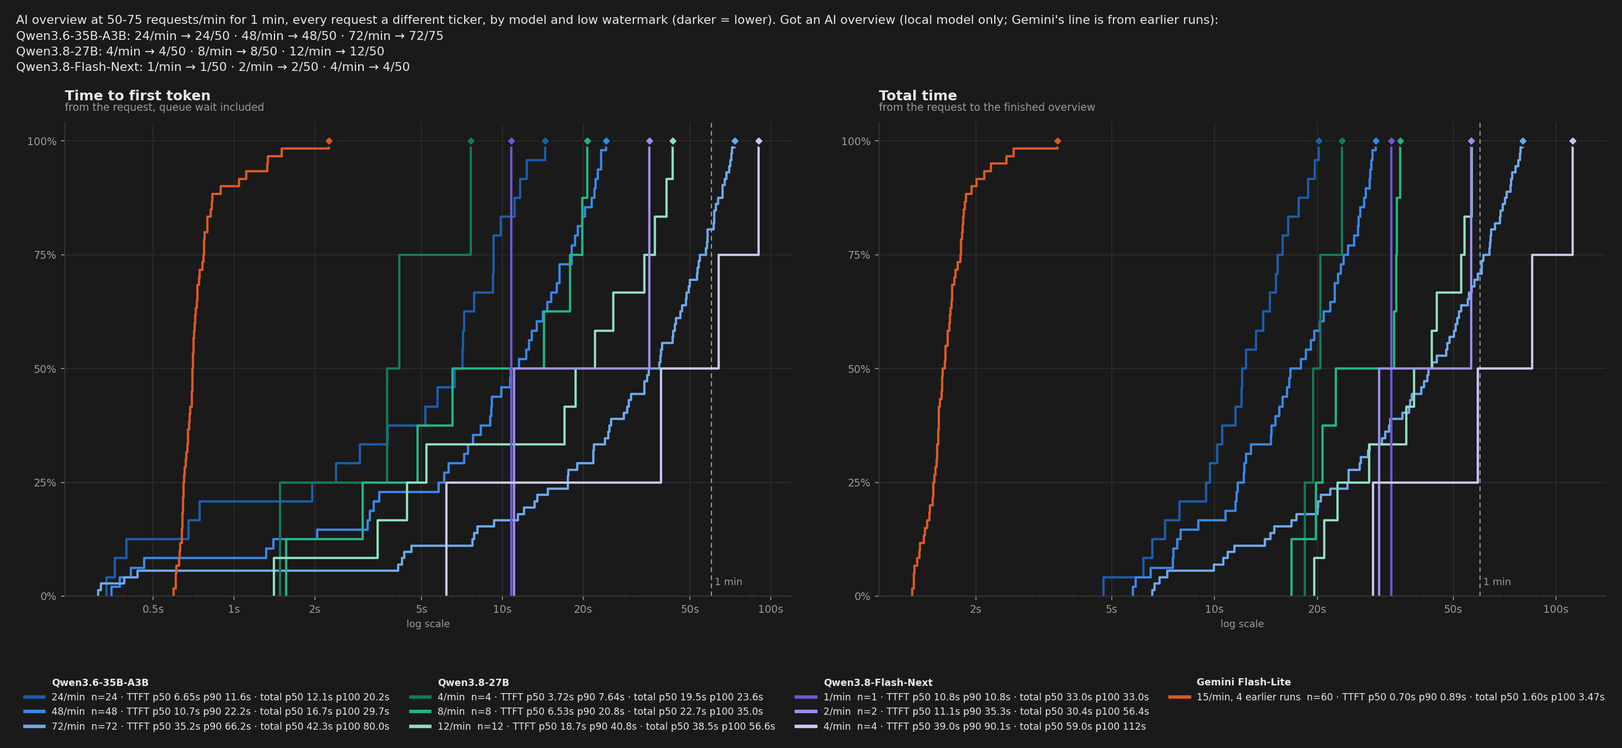
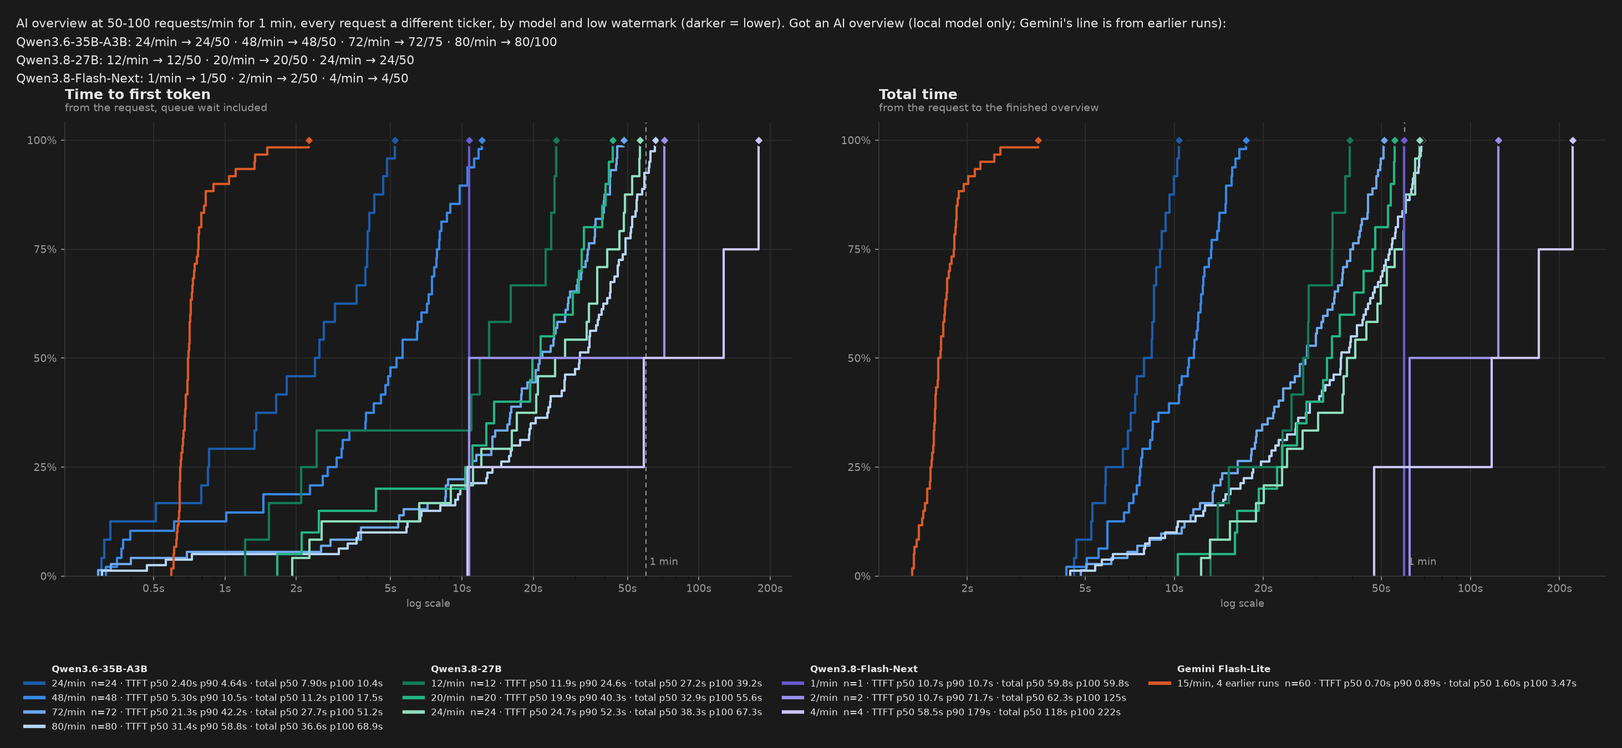
ui: rebenchmark M6 AI inference after Splash/Strata upgrades; bump 27B default watermark to 20/min
Re-benchmarked Qwen3.6-35B-A3B, Qwen3.8-27B (Splash) and Qwen3.8-Flash-Next
(Strata 0.1.62-metal) on the M6 Mac mini through inference-switchboard with
live Yahoo analyses (~750-token prompts, 288 cached on Splash, 0 on Strata):

- Qwen3.6-35B-A3B (Splash): 1-min burst watermark 56 -> 72/min (51.2 s max),
  ~40-41 ovw/min sustained (~58 tok/s x 4 streams; 131-146 tok/s solo).
- Qwen3.8-27B (Splash): 1-min burst watermark 12 -> 20/min (55.6 s max),
  ~15 ovw/min sustained (~22 tok/s x 4 streams; 32-41 tok/s solo).
- Qwen3.8-Flash-Next (Strata 0.1.62-metal): 1-min watermark 2 -> 1/min
  (59.8 s max, 4.3-5.6 tok/s, ~65 s/ticker pre-cache) due to 84 MiB (64-slot)
  expert cache at 128K fp16 context saturating SSD reads (~3 GB/s).

Bumps default --llm-rpm from 12 to 20 (with updated CLI help, docs, and unit
tests) and refreshes ui/docs/inference_bench_m6.png and READMEs.

diff --git a/ui/server.py b/ui/server.py
@@ -928,7 +928,7 @@ def parse_args(argv=None):
     p.add_argument("--cache-llm-url", default=s.cache_llm_base_url, metavar="URL",
                    help="the nightly pre-cache's model: its AI overviews are written there, one at a time, then "
                         "--llm-url is primed again (default: port 8002 of LYNCH_SWITCHBOARD, Qwen3.8-Flash-Next on "
-                        "Strata, ~30 s an overview; '' = the online model)")
+                        "Strata, ~60 s an overview; '' = the online model)")
     p.add_argument("--cache-llm-model", default=s.cache_llm_model,
                    help="model id at --cache-llm-url (default Qwen3.8-Flash-Next; '' = the first model it lists)")
     p.add_argument("--no-cache-llm", action="store_true", help="the online model writes the pre-cache's overviews too")
@@ -943,7 +943,7 @@ def parse_args(argv=None):
                    help="ask LM Studio to load the model with --llm-ctx before the first request")
     p.add_argument("--llm-rpm", type=int, default=s.llm_rpm, metavar="N",
                    help=f"low watermark: AI overviews a minute the local model is given (default {s.llm_rpm}: "
-                        "Qwen3.8-27B on the M6's Splash with --llm-parallel 4; 56 for Qwen3.6-35B-A3B). Above it, "
+                        "Qwen3.8-27B on the M6's Splash with --llm-parallel 4; 72 for Qwen3.6-35B-A3B). Above it, "
                         "Gemini; above --llm-rpm + --gemini-rpm, the Quick overview with a Retry AI button")
     p.add_argument("--gemini-model", default=s.gemini_model,
                    help="Gemini model for overviews above the low watermark (default gemini-flash-lite-latest; "
@@ -961,7 +961,7 @@ def parse_args(argv=None):
                         "day minus 10 for the daily scans); past it lookups are not enriched")
     p.add_argument("--precache", type=int, default=s.precache, metavar="N",
                    help="right after the cache resets at midnight, analyse the N most looked-up tickers of the "
-                        "last 30 days, one at a time with their AI overviews by --cache-llm-url (default 50: ~25 "
+                        "last 30 days, one at a time with their AI overviews by --cache-llm-url (default 50: ~55 "
                         "min on Flash-Next; 0 = off; needs the stats page, i.e. --lan or --public)")
     p.add_argument("--benchmark", default=s.benchmark, help="index for the 6M edge backtest (default SPY)")
     p.add_argument("--edge", action="store_true", default=s.edge,

diff --git a/ui/config.py b/ui/config.py
@@ -131,7 +131,7 @@ class Settings:
         "LYNCH_LLM_MODEL", "mlx-community/Qwen3.8-27B-4bit", ""))
     # The nightly pre-cache's model (ui/precache.py): its AI overviews are written on this endpoint instead, one at a
     # time; afterwards the online model above is primed again (the switchboard swapped it out). Empty = the online model.
-    # With LYNCH_SWITCHBOARD: Qwen3.8-Flash-Next on its port 8002, ~30 s an overview on the M6, too slow for visitors.
+    # With LYNCH_SWITCHBOARD: Qwen3.8-Flash-Next on its port 8002, ~60 s an overview on the M6, too slow for visitors.
     cache_llm_base_url: str = field(default_factory=lambda: _llm_default("LYNCH_CACHE_LLM_URL", "{sb}:8002", ""))
     cache_llm_model: str = field(default_factory=lambda: os.environ.get("LYNCH_CACHE_LLM_MODEL", "Qwen3.8-Flash-Next"))
     llm_ctx: int = field(default_factory=lambda: _env_int("LYNCH_LLM_CTX", 65536))
@@ -148,11 +148,11 @@ class Settings:
     llm_parallel: int = field(default_factory=lambda: _env_int("LYNCH_LLM_PARALLEL", 4))
     # Ask LM Studio to (JIT-)load the model with llm_ctx context before the first request.
     llm_autoload: bool = field(default_factory=lambda: _env_bool("LYNCH_LLM_AUTOLOAD"))
-    # Inference queue (ui/inference_queue.py). Low watermark: AI overviews per minute the local model is given. 12 is
-    # Qwen3.8-27B on the M6's Splash with --llm-parallel 4: a 1-minute burst of 12 all finished within 57 s (ui/README.md,
-    # "Benchmark: the M6 Mac mini"); 56 for Qwen3.6-35B-A3B. Above it, overviews go to Gemini up to gemini_rpm (high
+    # Inference queue (ui/inference_queue.py). Low watermark: AI overviews per minute the local model is given. 20 is
+    # Qwen3.8-27B on the M6's Splash with --llm-parallel 4: a 1-minute burst of 20 all finished within 56 s (ui/README.md,
+    # "Benchmark: the M6 Mac mini"); 72 for Qwen3.6-35B-A3B. Above it, overviews go to Gemini up to gemini_rpm (high
     # watermark = llm_rpm + gemini_rpm); above that, the Quick overview.
-    llm_rpm: int = field(default_factory=lambda: _env_int("LYNCH_LLM_RPM", 12))
+    llm_rpm: int = field(default_factory=lambda: _env_int("LYNCH_LLM_RPM", 20))
     # Gemini offload (ui/gemini.py): on when GEMINI_API_KEY is set. Free tier: 15 requests a minute per model
     # (Google's 429 names the quota); 975 a day leaves room for the daily scans' backup tier.
     gemini: bool = field(default_factory=lambda: _env_bool("LYNCH_GEMINI", True))

diff --git a/ui/llm.py b/ui/llm.py
@@ -543,9 +543,9 @@ class LocalLLMClient:
 
 class CacheLLMClient(LocalLLMClient):
     """The nightly pre-cache's model (``--cache-llm-url``): ``LocalLLMClient`` on a second endpoint, by default
-    Qwen3.8-Flash-Next on Strata behind the switchboard (one request at a time, ~30 s an overview on the M6). Same
+    Qwen3.8-Flash-Next on Strata behind the switchboard (one request at a time, ~60 s an overview on the M6). Same
     context, token budget, reasoning switch and timeout as the online model. No system-prompt priming: Strata's prefix
-    cache never hit (``cached_tokens: 0`` even after priming), so a prime would only add ~6 s of prefill now and then."""
+    cache never hit on ticker prompts (``cached_tokens: 0`` even after priming), so a prime would only add prefill."""
 
     def __init__(self, settings, session=None, clock=time.monotonic):
         s = dataclasses.replace(settings, llm_base_url=settings.cache_llm_base_url.rstrip("/"),

diff --git a/ui/tests/test_inference.py b/ui/tests/test_inference.py
@@ -213,7 +213,7 @@ def test_cli_sets_the_watermarks():
     s, _ = parse_args(["--llm-rpm", "12", "--gemini-rpm", "10", "--gemini-rpd", "500", "--gemini-model", "m"])
     assert (s.llm_rpm, s.gemini_rpm, s.gemini_rpd, s.gemini_model, s.gemini) == (12, 10, 500, "m", True)
     assert parse_args(["--no-gemini"])[0].gemini is False
-    assert Settings().llm_rpm == 12 and Settings().gemini_model == "gemini-flash-lite-latest"  # the 27B's minute
+    assert Settings().llm_rpm == 20 and Settings().gemini_model == "gemini-flash-lite-latest"  # the 27B's minute
 
 
 # ── the job manager ──────────────────────────────────────────────────────────

diff --git a/ui/precache.py b/ui/precache.py
@@ -11,7 +11,7 @@ don't count on the stats page or in the cache's hit rate. They do spend the usua
 enrichment on, FMP requests (within the portal's 24 h cap, ui/fmp_budget.py).
 
 The overviews are written by the pre-cache's own model (--cache-llm-url: Qwen3.8-Flash-Next on Strata behind the
-switchboard: ~31 s a ticker with its analysis on the M6, ~25 min for 50) while it answers, else by the online model.
+switchboard: ~65 s a ticker with its analysis on the M6, ~55 min for 50) while it answers, else by the online model.
 On the switchboard that swaps the online model out, so once the run is over the online model (--llm-url) is primed
 again: the swap back and the system prompt's prefill happen now, not on the first visitor's overview.
 """

diff --git a/ui/tests/test_ai.py b/ui/tests/test_ai.py
@@ -51,7 +51,7 @@ def test_switchboard_defaults(monkeypatch, tmp_path):
     s = Settings()
     assert (s.llm_base_url, s.llm_model) == ("http://100.64.0.1:8000", "mlx-community/Qwen3.8-27B-4bit")
     assert (s.cache_llm_base_url, s.cache_llm_model) == ("http://100.64.0.1:8002", "Qwen3.8-Flash-Next")
-    assert (s.llm_rpm, s.llm_parallel) == (12, 4)  # the 27B's 1-minute point with the switchboard's 4 streams
+    assert (s.llm_rpm, s.llm_parallel) == (20, 4)  # the 27B's 1-minute point with the switchboard's 4 streams
     monkeypatch.setenv("LYNCH_LLM_BASE_URL", "http://10.0.0.5:1234")  # an explicit setting wins
     monkeypatch.setenv("LYNCH_CACHE_LLM_URL", "")                     # "" = the online model pre-caches
     s = Settings()

diff --git a/ui/README.md b/ui/README.md
@@ -282,7 +282,7 @@ Measured cost:
 | `--llm-reasoning` | `LYNCH_LLM_REASONING` | `off` (sends `reasoning_effort: "none"`; `on` keeps the model's thinking) |
 | `--llm-autoload` | `LYNCH_LLM_AUTOLOAD=1` | off (asks LM Studio to load the model with `--llm-ctx`) |
 | `--llm-parallel` | `LYNCH_LLM_PARALLEL` | `4` AI overviews generated at once: the switchboard admits 4 per Splash model (see *Local AI tuning*) |
-| `--llm-rpm` | `LYNCH_LLM_RPM` | `12`: low watermark, AI overviews a minute the local model is given (the 27B's). Measured on the M6 with `--llm-parallel 4`: 56 for Qwen3.6-35B-A3B (~32 under sustained load) and 12 for the 27B; 2 for Flash-Next on Strata with `--llm-parallel 1` (see *Benchmark: the M6 Mac mini*) |
+| `--llm-rpm` | `LYNCH_LLM_RPM` | `20`: low watermark, AI overviews a minute the local model is given (the 27B's). Measured on the M6 with `--llm-parallel 4`: 72 for Qwen3.6-35B-A3B (~40 under sustained load) and 20 for the 27B (~15 sustained); 1 for Flash-Next on Strata with `--llm-parallel 1` (see *Benchmark: the M6 Mac mini*) |
 | `--gemini-model` | `LYNCH_GEMINI_MODEL` | `gemini-flash-lite-latest`: offload above the low watermark, with `GEMINI_API_KEY` set |
 | `--gemini-rpm` / `--gemini-rpd` | `LYNCH_GEMINI_RPM` / `LYNCH_GEMINI_RPD` | `15` a minute (the free tier's limit per model) / `975` a Pacific day (room for the daily scans' backup tier) |
 | `--no-gemini` | `LYNCH_GEMINI=0` | Gemini offload on when `GEMINI_API_KEY` is set |
@@ -304,7 +304,7 @@ Measured cost:
 | `--workers` | `LYNCH_UI_WORKERS` | `0` = auto: 2 × CPU cores (max 16, capped by free RAM at ~200 MB each), or 1 with the AI overview when its model runs on this machine (a loopback `--llm-url`); above 1, one process each |
 | `--enrich` | `LYNCH_UI_ENRICH` | `auto`: FMP multi-source growth when `FMP_API_KEY` is set (`on` / `off` to force) |
 | `--fmp-limit` | `LYNCH_UI_FMP_LIMIT` | `240`: FMP requests the portal may make in any rolling 24 h (the free plan's 250 a day minus 10 for the daily scans). Every request FMP answers counts, errors included (a 402 for a symbol outside the free plan counts on FMP's dashboard); only a request FMP didn't answer (network error, timeout, a 5xx server failure) is handed back, and lookups that never call FMP cost nothing. Past the cap lookups are simply not enriched; the count is shared by the analysis processes and kept across restarts (`<cache_dir>/fmp_budget.sqlite3`), and `/api/health` shows it under `enrich` (not with `--public`). A ticker FMP had nothing for (a 402 for a symbol outside the free plan, or estimates that give no 5Y growth, i.e. *Not enriched*) is not asked again for 30 days, so its repeat lookups cost no FMP request; FMP's own daily cap, a rejected key, a 429, a 5xx or a network error never put a ticker on that list (`unenriched` under `enrich` counts them). The portal only: the daily scans (`main.py`) still ask FMP every time |
-| `--precache` | `LYNCH_UI_PRECACHE` | `50`: right after the cache resets at midnight, analyse the N most looked-up tickers of the last 30 days (from the stats page, so `--lan` / `--public`; fewer if fewer were looked up), one at a time: with the AI overview on, the next ticker starts only once the previous one's overview is finished. The overviews are `--cache-llm-url`'s while it answers (Flash-Next: ~31 s a ticker with its analysis, ~25 min for 50), else the online model's. These lookups don't count on the stats page or in the cache's hit rate, but spend the usual Yahoo calls and FMP requests (within `--fmp-limit`). `0` = off; `/api/health` shows the last run under `precache` |
+| `--precache` | `LYNCH_UI_PRECACHE` | `50`: right after the cache resets at midnight, analyse the N most looked-up tickers of the last 30 days (from the stats page, so `--lan` / `--public`; fewer if fewer were looked up), one at a time: with the AI overview on, the next ticker starts only once the previous one's overview is finished. The overviews are `--cache-llm-url`'s while it answers (Flash-Next: ~65 s a ticker with its analysis, ~55 min for 50), else the online model's. These lookups don't count on the stats page or in the cache's hit rate, but spend the usual Yahoo calls and FMP requests (within `--fmp-limit`). `0` = off; `/api/health` shows the last run under `precache` |
 | | `LYNCH_UI_NATIVE_CHART=0` / `LYNCH_UI_CHART_LIB` | on when built / `ui/native/target/release/liblynch_chart.dylib` (`.so` on Linux): draw per-ticker charts with matplotlib instead / where the native renderer is loaded from (see *Native chart renderer*) |
 | `--tv-viewers` | `LYNCH_UI_TV_VIEWERS` | `50`: people who may have the trading view open at once (0 = no limit; see *Trading view*) |
 | `--tv-live` | `LYNCH_UI_TV_LIVE` | `2`: people who may use the LIVE last candle at once (each live ticker: up to 30 Yahoo requests a minute) |
@@ -322,7 +322,7 @@ Every new AI overview request (a ticker without one today) is admitted by `ui/in
 
 | Requests in the last minute | Who writes the overview |
 |---|---|
-| up to the **low watermark** (`--llm-rpm`, default 12) | the local model; at most that many waiting or being written at once, so a model slower than its setting never builds more than about a minute of backlog |
+| up to the **low watermark** (`--llm-rpm`, default 20) | the local model; at most that many waiting or being written at once, so a model slower than its setting never builds more than about a minute of backlog |
 | low … **high watermark** (= `--llm-rpm` + `--gemini-rpm`) | **Gemini** (`--gemini-model`, default `gemini-flash-lite-latest`) through its OpenAI-compatible API, streamed like the local model, at most 15 a minute and 975 a Pacific day (`ui/gemini.py`) |
 | above the high watermark | nobody for now: the page shows the rule-based **Quick overview** with **↻ Retry AI**, which counts down `retry_after` (when a slot frees up) |
 
@@ -334,21 +334,23 @@ Every new AI overview request (a ticker without one today) is admitted by `ui/in
 - **No reasoning switch for Gemini.** Flash-Lite doesn't think, and the API refuses any attempt to turn thinking off (400 for `reasoning_effort: "none"` and for `thinking_budget: 0`). A refused request still counts: sending it once cost one of the minute's 15 and the 15th request got a 429. `"minimal"` is accepted but turned a ~1 s first token into ~7 s.
 - `/api/health` shows the queue under `cache.inference`: watermarks, last minute's local and paused requests, Gemini's minute and day. The stats page charts where overviews came from (see *Stats page*).
 
-### Benchmark: the M6 Mac mini (2026-10-27)
+### Benchmark: the M6 Mac mini (2026-11-19)
+
+Re-measured after Splash and Strata engine upgrades (128K context on all three ports, Splash speculative decoding + `int8` KV + ANE split prefill on dense FFN, Strata `0.1.62-metal` with 128K `fp16` KV and `dflash2` drafting) and the 2026-11-03 prompt additions (~750 tokens vs ~630 on 2026-10-27; 288 cached system-prompt tokens on Splash vs 256).
 
 `ui/tests/inference_bench.py` sends AI overview requests at a fixed rate through the portal's real `JobManager`:
-- **Prompts.** Every request is a different ticker, and a ticker the local model has written is not used again that day.
-  - The tickers come from `database/*.txt`, analysed once a day from live Yahoo data with FMP off.
-  - A prompt the server has seen before comes almost entirely from Splash's prefix cache (~610 of ~630 tokens instead of the 256-token system prompt), which would make the local model's TTFT look about 2× better than it is. Tickers that went to Gemini or the Quick overview stay available, so a day has room for about 10 runs.
+- **Prompts.** Every request is a different ticker, and no ticker seen by a model is reused on that model the same day (`cached_tokens` verified equal to the 288-token system prompt on every Splash request, 0 on Strata).
+  - The tickers come from `database/*.txt` (311 usable), analysed once a day from live Yahoo data with FMP off.
+  - A prompt the server has seen before comes almost entirely from Splash's prefix cache (~730 of ~750 tokens instead of the 288-token system prompt), which would make the local model's TTFT look about 2× better than it is.
 - **Warm-up.** Two spare tickers first load the weights and prime the shared system prompt.
 - **Timing.** Time to first token is measured from the request, so it includes the queue wait. Total time runs from the request to the finished overview.
 - **Output.** The results are written to `tmp/`, with CDF charts. `--compare` draws several runs (up to three models) on one chart, and `--gemini-from` takes Gemini's line from earlier runs instead of spending Gemini requests.
 
-Setup: a Mac mini M6 (32 GB) on Tailscale, serving through [inference-switchboard](https://github.com/duman190/inference-switchboard): one model in memory at a time, picked by port.
-- **Engines.** The two Qwens run on Splash (4-bit MLX, at most 4 requests at once), and Qwen3.8-Flash-Next Q2_0 runs on Strata (one request at a time, experts streamed from the SSD).
-- **Client.** The portal ran on a laptop with `--llm-parallel 4` (1 for Strata) and 64K context.
-- **Load.** Each run sent 50 requests in 1 minute, or 75 where the low watermark was above 50, with Gemini off.
-- **Switching.** One switch per model, 13-23 s, then the warm-up.
+Setup: a Mac mini M6 (32 GB, macOS 27.2) on Tailscale, serving through [inference-switchboard](https://github.com/duman190/inference-switchboard): one model in memory at a time, picked by port.
+- **Engines.** The two Qwens run on Splash (4-bit MLX, 128K context, `int8` KV, speculative decoding, `maximum_batch_width = 4`), and Qwen3.8-Flash-Next Q2_0 runs on Strata `0.1.62-metal` (128K context, `fp16` KV, `dflash2` drafting, one request at a time, experts streamed from the SSD).
+- **Client.** The portal ran on a laptop with `--llm-parallel 4` (1 for Strata) and 64K client context.
+- **Load.** Each run sent 50 requests in 1 minute, 75 where the low watermark was 56–72, and 100 at 80/min, with Gemini off.
+- **Switching.** One switch per model, 17–22 s, then the warm-up.
 
 ![AI overview CDFs on the M6: Qwen3.6-35B-A3B, Qwen3.8-27B and Qwen3.8-Flash-Next by low watermark](docs/inference_bench_m6.png)
 
@@ -356,34 +358,35 @@ Gemini's line is from the four 2026-10-07 runs (Flash-Lite at 15 a minute, n=60)
 
 | Model | Low watermark | Local overviews | Started / done by 1:00 | TTFT p50 / p90 / max | Total p50 / p90 / max | Tok/s per stream |
 |---|---|---|---|---|---|---|
-| Qwen3.6-35B-A3B | 16/min | 16/16 | 16 / 16 | 3.8 / 7.4 / 7.6 s | 9.6 / 13.5 / 13.6 s | 46 |
-| | 20/min | 20/20 | 20 / 20 | 5.1 / 9.6 / 11.0 s | 11.9 / 15.9 / 18.4 s | 46 |
-| | 24/min | 24/24 | 24 / 24 | 6.6 / 11.6 / 14.4 s | 12.1 / 18.8 / 20.2 s | 46 |
-| | 28/min | 28/28 | 28 / 28 | 7.6 / 16.0 / 18.9 s | 15.6 / 23.1 / 24.0 s | 42 |
-| | 48/min | 48/48 | 35 / 32 | 10.7 / 22.2 / 24.4 s | 16.7 / 28.4 / 29.7 s | 48 |
-| | **56/min (75 sent)** | 56/56 | 36 / 33 | 23.0 / 44.0 / 49.0 s | 28.8 / 51.6 / **54.4 s** | 47 |
-| | 60/min (75 sent) | 60/60 | 36 / 32 | 26.3 / 50.1 / 55.8 s | 32.5 / 57.2 / 60.2 s | 47 |
-| | 64/min (75 sent) | 64/64 (1 partial) | 37 / 33 | 26.2 / 52.6 / 58.8 s | 33.0 / 60.1 / 64.8 s | 47 |
-| | 72/min (75 sent) | 72/72 | 33 / 30 | 35.2 / 66.2 / 73.5 s | 42.3 / 73.7 / 80.0 s | 45 |
-| Qwen3.8-27B | 4/min | 4/4 | 4 / 4 | 3.7 / 7.6 / 7.6 s | 19.5 / 23.6 / 23.6 s | 17 |
-| | 8/min | 8/8 | 8 / 8 | 6.5 / 20.8 / 20.8 s | 22.7 / 35.0 / 35.0 s | 16 |
-| | **12/min** | 12/12 | 12 / 8 | 18.7 / 40.8 / 43.0 s | 38.5 / 56.6 / 56.6 s | 15 |
-| Qwen3.8-Flash-Next (Strata) | 1/min | 1/1 | 1 / 1 | 10.8 s | 33.0 s | 12 |
-| | **2/min** | 2/2 | 2 / 2 | 11.1 / 35.3 s | 30.4 / 56.4 s | 13 |
-| | 4/min | 4/4 | 2 / 1 | 39.0 / 90.1 s | 59.0 / 112 s | 13 |
+| Qwen3.6-35B-A3B | 24/min | 24/24 | 24 / 24 | 2.4 / 4.6 / 5.2 s | 7.9 / 10.0 / 10.4 s | 59 |
+| | 48/min | 48/48 | 42 / 39 | 5.3 / 10.5 / 12.1 s | 11.2 / 15.6 / 17.5 s | 58 |
+| | 56/min (75 sent) | 56/56 | 44 / 40 | 15.7 / 30.9 / 33.8 s | 21.1 / 36.5 / 38.0 s | 58 |
+| | **72/min (75 sent)** | 72/72 | 42 / 38 | 21.3 / 42.2 / 48.3 s | 27.7 / 48.2 / **51.2 s** | 57 |
+| | 80/min (100 sent) | 80/80 (1 partial) | 43 / 39 | 31.4 / 58.8 / 65.5 s | 36.6 / 63.8 / 68.9 s | 58 |
+| Qwen3.8-27B | 8/min | 8/8 | 8 / 8 | 2.6 / 15.2 / 15.2 s | 18.9 / 23.8 / 23.8 s | 22 |
+| | 12/min | 12/12 | 12 / 12 | 11.9 / 24.6 / 24.9 s | 27.2 / 37.8 / 39.2 s | 22 |
+| | 16/min | 16/16 | 15 / 11 | 21.0 / 35.6 / 43.6 s | 33.8 / 48.2 / 53.4 s | 22 |
+| | **20/min** | 20/20 | 17 / 14 | 19.9 / 40.3 / 43.3 s | 32.9 / 54.0 / **55.6 s** | 22 |
+| | 24/min | 24/24 | 17 / 13 | 24.7 / 52.3 / 56.4 s | 38.3 / 65.1 / 67.3 s | 22 |
+| Qwen3.8-Flash-Next (Strata) | **1/min** | 1/1 | 1 / 1 | 10.7 s | **59.8 s** | 5.2 |
+| | 2/min | 2/2 | 1 / 0 | 10.7 / 71.7 s | 62.3 / 125 s | 5.2 |
+| | 4/min | 4/4 | 2 / 1 | 58.5 / 179 s | 118 / 222 s | 4.9 |
 
-No local request failed in any run, and all but one got a complete overview (one partial reply at 64/min). Replies were 250-310 tokens (p50).
+No local request failed in any run, and all but one got a complete overview (one partial reply at 80/min on the A3B). Replies were 260–310 tokens (p50; 207–274 on Flash-Next).
 
 **Reading the table:**
-- **Qwen3.6-35B-A3B: 56/min** is the highest watermark measured where every overview finished within a minute (slowest 54.4 s). At 60/min the slowest took 60.2 s, and at 64/min 64.8 s, with p90 at the minute.
-  - It writes about 33 overviews a minute, with each of 4 streams at ~46 tok/s. Above that, the extra overviews wait in the queue.
-  - 48/min arrived at 50 requests a minute and finished within 29.7 s. The 56-72 runs arrived at 75 a minute (a 50/min run can't fill a 64 watermark), so their queue built faster.
-  - The 56/60/64 runs reused tickers from earlier in the day on a freshly restarted engine (`--reuse`). Every one of their local requests reported exactly the 256 cached system-prompt tokens, so none came from the cache.
-- **Qwen3.8-27B: 12/min** is its 1-minute point (slowest 56.6 s). It writes about 10 overviews a minute, with each of 4 streams at ~16 tok/s.
-- **Qwen3.8-Flash-Next: 2/min** (slowest 56.4 s). It writes one overview at a time, ~30 s each, at ~12.5 tok/s. Its prefix cache never hit (`cached_tokens: 0`, even after priming), so every request processes the whole ~600-token prompt: ~6 s to the first token with nothing queued. It suits the overnight jobs it's meant for, not visitors.
+- **Qwen3.6-35B-A3B: 72/min** (up from 56/min on 2026-10-27) is the highest watermark measured where every overview finished within a minute (slowest 51.2 s at 75 req/min; 80/min at 100 req/min crossed the minute at 68.9 s max, p90 63.8 s).
+  - It now sustains **~40–41 overviews a minute** (up from ~33), with each of 4 streams at **~58 tok/s** (up from ~46; ~243 tok/s aggregate, 52% speculative draft acceptance, ~2100 tok/s prefill).
+  - Apples-to-apples at the same arrival rates: 24/min max dropped from 20.2 s to 10.4 s, 48/min from 29.7 s to 17.5 s, 56/min from 54.4 s to 38.0 s, and 72/min from 80.0 s to 51.2 s — despite the ~85-token longer prompt.
+- **Qwen3.8-27B: 20/min** (up from 12/min on 2026-10-27) is its new 1-minute point (slowest 55.6 s; 24/min crossed at 67.3 s).
+  - It now sustains **~15 overviews a minute** (up from ~10), with each of 4 streams at **~22 tok/s** (up from ~15–16; ~87 tok/s aggregate, ~36% draft acceptance, ~485 tok/s prefill). At the old 12/min watermark, max latency fell from 56.6 s to 39.2 s and all 12 finished within the minute.
+  - **32 GB state-cache note:** with target (15.1 GB) + draft (1.27 GB) + vision (0.93 GB) + ANE FFN weights fixed at 19.84 GB, Splash has 5.89 GB of dynamic headroom. After ~60–80 unique tickers fill that budget with ~49 MB GDN state entries, a 4th concurrent lane can briefly hit ~10 s of `claim_wait` while reclaiming/offloading state to disk (seen in the 16/min row, whose p90/max sat close to 20/min).
+- **Qwen3.8-Flash-Next (Strata `0.1.62-metal`): 1/min** (down from 2/min on 2026-10-27; slowest 59.8 s; 2/min took 125 s).
+  - It now writes one overview in **~57–67 s** at **~5.0 tok/s** (down from ~30 s at 12–13 tok/s on 2026-10-27), with 9–12 s TTFT (up from ~6 s).
+  - Strata's `/metrics` explains the regression: at 128K `fp16` context and 4.35 GB reserved for conversation cache, Strata left only **84 MiB (64 slots out of 24,576 experts)** for its expert cache, saturating SSD reads at ~2.9–3.1 GB/s on every step despite `dflash2` drafting (~73% acceptance). Prefix reuse on ticker prompts is still 0 (`cached_tokens: 0`; the conversation cache only reused identical empty-user `_prime` requests).
 - **These are 1-minute bursts.** Under steady traffic above a model's sustained rate, the queue fills up to the low watermark, since that also caps how many overviews can wait at once.
-  - For the 35B at 56/min that is about 1.7 minutes of wait.
-  - To keep every overview under a minute through sustained load, set the watermark at about the sustained rate: ~32 for the 35B (28/min measured: slowest 24 s), 10 for the 27B, 2 for Flash-Next.
+  - For the 35B at 72/min that is about 1.8 minutes of wait; for the 27B at 20/min about 1.3 minutes.
+  - To keep every overview under a minute through sustained load, set the watermark at about the sustained rate: ~40 for the 35B, ~15–16 for the 27B, 1 for Flash-Next.
 
 **Quality** (the same 4 tickers on Gemini and the 35B-A3B, NVDA / KO / INTC / PLTR, 2026-10-07): both models had three sections every time, copied the reverse-DCF numbers (4/4) and verdict, copied the analyst-target sentence (the local model once lowercased it mid-sentence), and used no number that wasn't in the data.
 - **Gemini** reads more fluently and cites more of the data.
@@ -393,26 +396,26 @@ No local request failed in any run, and all but one got a complete overview (one
 
 ## Local AI tuning
 
-Measured on the M6 Mac mini (2026-10-27) with real analyses, through the switchboard over Tailscale. Three models were tested:
-- `mlx-community/Qwen3.6-35B-A3B-4bit`: MoE with 3B active, on Splash, port 8001
-- `mlx-community/Qwen3.8-27B-4bit`: dense, on Splash, port 8000
-- Qwen3.8-Flash-Next Q2_0: MoE, on Strata with its experts streamed from the SSD, port 8002
+Measured on the M6 Mac mini (2026-11-19) with real analyses, through the switchboard over Tailscale. Three models were tested:
+- `mlx-community/Qwen3.6-35B-A3B-4bit`: MoE with 3B active, on Splash (speculative decoding, `int8` KV, 128K context), port 8001
+- `mlx-community/Qwen3.8-27B-4bit`: dense, on Splash (speculative decoding, `int8` KV, ANE split FFN, 128K context), port 8000
+- Qwen3.8-Flash-Next Q2_0: MoE, on Strata `0.1.62-metal` (`fp16` KV, `dflash2` drafting, 128K context, experts streamed from the SSD), port 8002
 
 The switchboard's README has the raw engine speeds.
 
 ### Where the time goes
 
-One overview = **prefill** (≈ time to first token) + **decode** (reply tokens ÷ tokens/s). One request at a time, primed cache, ~600-780-token prompts (the warm-ups of the benchmark above):
+One overview = **prefill** (≈ time to first token) + **decode** (reply tokens ÷ tokens/s). One request at a time, primed cache, ~680-800-token prompts (single-stream runs and warm-ups of the benchmark above):
 
 | | 35B-A3B (Splash) | 27B dense (Splash) | Flash-Next Q2_0 (Strata) |
 |---|---|---|---|
-| Time to first token | 0.3-0.4 s | ~1.4 s | ~6 s (nothing cached) |
-| Decode, one stream | 90-113 tok/s | 21-27 tok/s | 12-13 tok/s |
-| Decode, per stream at 4 at once | ~46 tok/s | ~16 tok/s | — (one at a time) |
-| Time per overview, alone | 3-5 s | 12-17 s | 26-35 s |
-| Overviews a minute, sustained | ~33 | ~10 | ~2 |
+| Time to first token | 0.25-0.32 s | 1.0-1.2 s | 9-12 s (nothing cached) |
+| Decode, one stream | 131-146 tok/s | 32-41 tok/s | 4.3-5.6 tok/s |
+| Decode, per stream at 4 at once | ~58 tok/s | ~22 tok/s | — (one at a time) |
+| Time per overview, alone | 2.1-2.7 s | 6.7-10.1 s | 47-67 s |
+| Overviews a minute, sustained | ~40-41 | ~15 | ~1 |
 
-**Prefix cache.** The static instructions come first, as the system message, so they cost nothing after warm-up and only the per-ticker data is prefilled. On Splash every overview reports `cached_tokens: 256` (see *Serving* below for why the portal primes it). Strata reported 0 cached tokens for every request.
+**Prefix cache.** The static instructions come first, as the system message, so they cost nothing after warm-up and only the per-ticker data is prefilled. On Splash every overview reports `cached_tokens: 288` (see *Serving* below for why the portal primes it). Strata reported 0 cached tokens for every ticker request.
 
 ### The prompt (`ui/llm.py`: `PORTAL_SYSTEM` + `portal_data()`)
 
@@ -453,7 +456,7 @@ Speeds are in the table above.
 - It paraphrases the verdict ("seems optimistic" rather than "a stretch"), sometimes writes a sentence that doesn't make sense ("assumes a significant margin of safety"), and tends to skip what the math demands operationally.
 - It once skipped the "🤖:" label but labelled the other two sections. The parser now treats unlabelled text before the first label as the overview, instead of dropping it ("partial reply").
 
-**Pick:** the A3B with `--llm-parallel 4` when several people use the portal: ~33 overviews/min sustained on the M6, with a first token in under 1 s when nothing is queued. The 27B (~10/min) when you're the only user and want the better write-up. Flash-Next (~2/min) for overnight jobs. The defaults: the 27B online (`--llm-rpm 12`, `--llm-parallel 4`) and Flash-Next for the nightly pre-cache.
+**Pick:** the A3B with `--llm-parallel 4` when several people use the portal: ~40–41 overviews/min sustained on the M6 (72/min 1-min burst), with a first token in ~0.3 s when nothing is queued. The 27B (~15/min sustained, 20/min 1-min burst) when you want the better write-up. Flash-Next (~1/min) for overnight jobs. The defaults: the 27B online (`--llm-rpm 20`, `--llm-parallel 4`) and Flash-Next for the nightly pre-cache.
 
 **Small-model labelling.** About 1 reply in 30 from the A3B had all three paragraphs in order but no labels at all. The parser now assigns exactly three unlabelled paragraphs to overview, reverse DCF and stomach test, in that order.
 
@@ -463,46 +466,46 @@ Splash batches concurrent requests itself, up to `maximum_batch_width` streams (
 
 ```bash
 echo 'export LYNCH_SWITCHBOARD=http://<mini-tailscale-ip>' >> venv-portal/bin/activate
-python -m ui.server --lan        # the 27B online (port 8000, --llm-rpm 12, --llm-parallel 4), Flash-Next overnight (port 8002)
-python -m ui.server --lan --llm-url http://<mini-tailscale-ip>:8001 --llm-model mlx-community/Qwen3.6-35B-A3B-4bit --llm-rpm 56   # the A3B online
+python -m ui.server --lan        # the 27B online (port 8000, --llm-rpm 20, --llm-parallel 4), Flash-Next overnight (port 8002)
+python -m ui.server --lan --llm-url http://<mini-tailscale-ip>:8001 --llm-model mlx-community/Qwen3.6-35B-A3B-4bit --llm-rpm 72   # the A3B online
 ```
 
 Notes on running it:
 - The portal's client works with Splash and the switchboard unchanged. It notices there is no LM Studio `/api/v0` and stops probing for it.
-- A switch to another model takes 13-23 s, and the cache must be primed again (the client does it on the first request).
+- A switch to another model takes 17-22 s, and the cache must be primed again (the client does it on the first request).
 
 - **The portal primes Splash's prefix cache itself.**
   - Splash keeps a request's reusable state "at the last whole 32-token page before its generation prompt", so a request can only resume from a state left by an earlier request whose prompt *ended* there. That suits multi-turn chats.
   - This Qwen mixes attention and recurrent layers, and the recurrent state can't be rebuilt from cached attention pages. So a new ticker never reused the system prompt left behind by another ticker's request: `/status` showed 23 sequential requests with 0 hits, 22 `lazy_junctions` and 0 `junction_materializations`. On the 27B, one materialization happened by chance under concurrency.
-  - `LocalLLMClient._prime` therefore sends the system prompt once with an empty user message and a 1-token reply. Its saved state ends exactly where every ticker's prompt diverges, and from then on every overview logs `cached 224`: the A3B sweep below had 45 hits and 0 new misses.
+  - `LocalLLMClient._prime` therefore sends the system prompt once with an empty user message and a 1-token reply. Its saved state ends exactly where every ticker's prompt diverges, and from then on every overview logs `cached 288` (224/256 on earlier shorter prompts).
   - It primes again, at most once a minute, whenever the server reports `cached_tokens: 0` (a restart or an eviction). LM Studio doesn't report that field, so there the client primes once, which is harmless.
 
 ### Overnight: Flash-Next writes the pre-cache
 
-The nightly pre-cache (`--precache`, right after midnight) writes its AI overviews on `--cache-llm-url`: Qwen3.8-Flash-Next on Strata (switchboard port 8002), the best write-up of the three and too slow for visitors (~2 a minute).
-- **One at a time.** Each ticker is analysed, then its overview is written on Flash-Next, then the next ticker starts: ~31 s a ticker, ~50 min for 100 (measured below). One AI worker serves this model (`ui.llm.CacheLLMClient`), and Strata takes one request at a time anyway.
-- **No priming on Strata.** Its prefix cache never hit (`cached_tokens: 0`, even right after a prime), so priming would only add ~6 s of prefill now and then.
-- **Then the online model is primed again.** The first request on port 8002 makes the switchboard swap the 27B out, and its prefix cache goes with it. Once the run is over, the portal sends the 27B its system prompt (`LocalLLMClient.warm_up`): the swap back (13-23 s) and the prompt's prefill happen then, not on the morning's first overview. The log says `🌅 Online model ready`, and `/api/health` has the result under `precache.online_warm`.
+The nightly pre-cache (`--precache`, right after midnight) writes its AI overviews on `--cache-llm-url`: Qwen3.8-Flash-Next on Strata (switchboard port 8002), the best write-up of the three and too slow for visitors (~1 a minute).
+- **One at a time.** Each ticker is analysed, then its overview is written on Flash-Next, then the next ticker starts: ~65 s a ticker, ~55 min for 50 (~110 min for 100, measured below). One AI worker serves this model (`ui.llm.CacheLLMClient`), and Strata takes one request at a time anyway.
+- **No priming on Strata.** Its prefix cache never hits on ticker prompts (`cached_tokens: 0`, even right after a prime), so priming would only add prefill now and then.
+- **Then the online model is primed again.** The first request on port 8002 makes the switchboard swap the 27B out, and its prefix cache goes with it. Once the run is over, the portal sends the 27B its system prompt (`LocalLLMClient.warm_up`): the swap back (~22 s) and the prompt's prefill happen then, not on the morning's first overview. The log says `🌅 Online model ready`, and `/api/health` has the result under `precache.online_warm`.
 - **A fallback.** If the overnight model doesn't answer its status probe, which the switchboard answers without swapping, the online model writes that ticker's overview, as before. `/api/health` shows the overnight model under `ai.cache_llm`.
 - **Visitors at night** still get the online model (or Gemini above the watermark). On the switchboard each such overview costs a swap each way: Flash-Next keeps the slot for `min_residency_s` (120 s) while the pre-cache uses it, so that first visitor's overview can wait a couple of minutes.
 - `--no-cache-llm` (or `--cache-llm-url ''`) has the online model write the pre-cache's overviews too, with no swap and no prime afterwards.
 
-Measured on the M6 (2026-10-27, through the switchboard over Tailscale, FMP off): a pre-cache of MSFT, NVDA, KO and CAT, with the A3B loaded when it started.
+Measured on the M6 (2026-11-19, through the switchboard over Tailscale, FMP off): a pre-cache of MSFT, NVDA, KO and CAT, with the A3B loaded when it started.
 
 | | Time | Detail |
 |---|---|---|
-| First ticker (MSFT) | 44.0 s | includes the swap to Flash-Next: first token 18.8 s |
-| Next three (NVDA, KO, CAT) | 29.4 / 31.9 / 31.8 s | ~3 s of analysis, 26-29 s of overview: first token 6.2-6.5 s, 13 tok/s, 259-295 tokens; all three sections every time |
-| The whole run | 137 s | ~31 s a ticker after the swap: ~50 min for 100 |
-| The 27B swapped back and primed | 21.9 s | the 274-token system prompt |
-| The next 27B overview | first token 1.35 s | 256 of its 612 prompt tokens from the prefix cache |
+| First ticker (MSFT) | 93.5 s | includes the swap to Flash-Next (~15 s): first token 24.7 s, 87.4 s overview (313 tokens at 5.0 tok/s) |
+| Next three (NVDA, KO, CAT) | 61.8 / 60.5 / 72.2 s | ~3–5 s of analysis, 56.5–66.8 s of overview: first token 9.1–12.7 s, 4.3–5.4 tok/s, 230–269 tokens, `cached_tokens: 0`; all three sections every time |
+| The whole run | 288 s | ~65 s a ticker after the swap: ~55 min for 50 (~110 min for 100) |
+| The 27B swapped back and primed | 22.2 s | the 314-token system prompt |
+| The next 27B overview (UBER) | first token 1.01 s | 288 of its 790 prompt tokens from the prefix cache, 37.1 tok/s, 9.35 s total |
 
 Re-run the benchmark, one model at a time:
 
 ```bash
 python ui/tests/inference_bench.py --llm-url http://<mini-tailscale-ip>:8001 --llm-model mlx-community/Qwen3.6-35B-A3B-4bit \
-    --llm-parallel 4 --llm-rpm 56 --rate 75 --minutes 1 --no-gemini --tag a3b-56
-python ui/tests/inference_bench.py --compare tmp/inference_bench-a3b-56.json tmp/inference_bench-d27b-12.json \
+    --llm-parallel 4 --llm-rpm 72 --rate 75 --minutes 1 --no-gemini --tag a3b-72
+python ui/tests/inference_bench.py --compare tmp/inference_bench-a3b-72.json tmp/inference_bench-d27b-20.json \
     --gemini-from tmp/inference_bench-llm12.json
 ```
 

diff --git a/README.md b/README.md
@@ -352,12 +352,11 @@ This prevents hypergrowth companies (LYFT, CELH) from producing fantasy ROIs by 
 
 ## Web Portal & Local AI Overview
 
-`python -m ui.server` serves a dark-mode web UI for single-ticker lookups, with an optional AI overview streamed from a local LM Studio server. With `--lan` or `--public` it also serves a stats page on port 190, for LAN / Tailscale clients only (requests per minute, lookup latency, rejections, caching, popular tickers, AI speed over a rolling 30 days; DAU and MAU over a rolling year). See [ui/README.md](ui/README.md). Its **Local AI tuning** section has the measurements behind the overview prompt and the settings to use on new hardware:
-- prefill vs decode speed for a dense 27B and a 3B-active MoE on Splash
-- the prefix-cache behaviour
+`python -m ui.server` serves a dark-mode web UI for single-ticker lookups, with an optional AI overview streamed from Splash/Strata (via `inference-switchboard`) or a local LM Studio server. With `--lan` or `--public` it also serves a stats page on port 190, for LAN / Tailscale clients only (requests per minute, lookup latency, rejections, caching, popular tickers, AI speed over a rolling 30 days; DAU and MAU over a rolling year). See [ui/README.md](ui/README.md). Its **AI inference queue** and **Local AI tuning** sections have the M6 Mac mini benchmarks and the settings to use on new hardware:
+- prefill vs decode speed for a dense 27B and a 3B-active MoE on Splash, plus Flash-Next on Strata
+- the prefix-cache behaviour and priming
 - the prompt rules
-- the model comparison
-- why one request at a time (`--llm-parallel 1`) is optimal on LM Studio's Splash engine
+- the model comparison and low-watermark sizing (`--llm-parallel 4`, `--llm-rpm 20` default for 27B / `72` for 35B-A3B)
 
 `python ui/tests/llm_bench.py --llm-url http://HOST:1234 --llm-model MODEL --conc 1,2,4` re-runs the benchmark.
 
